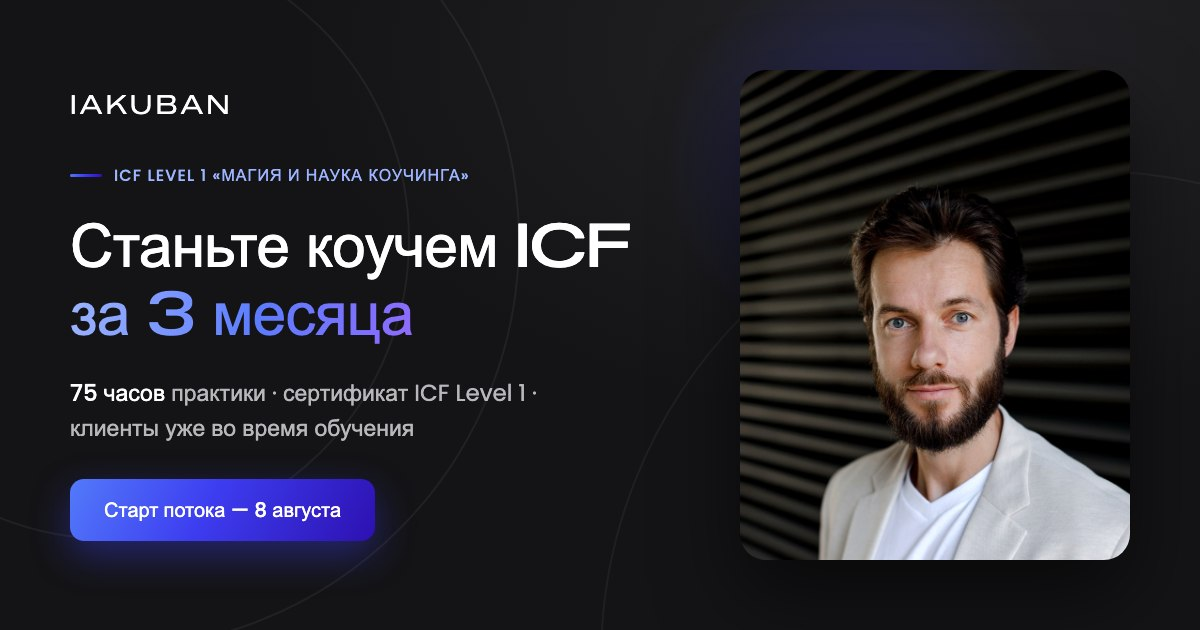
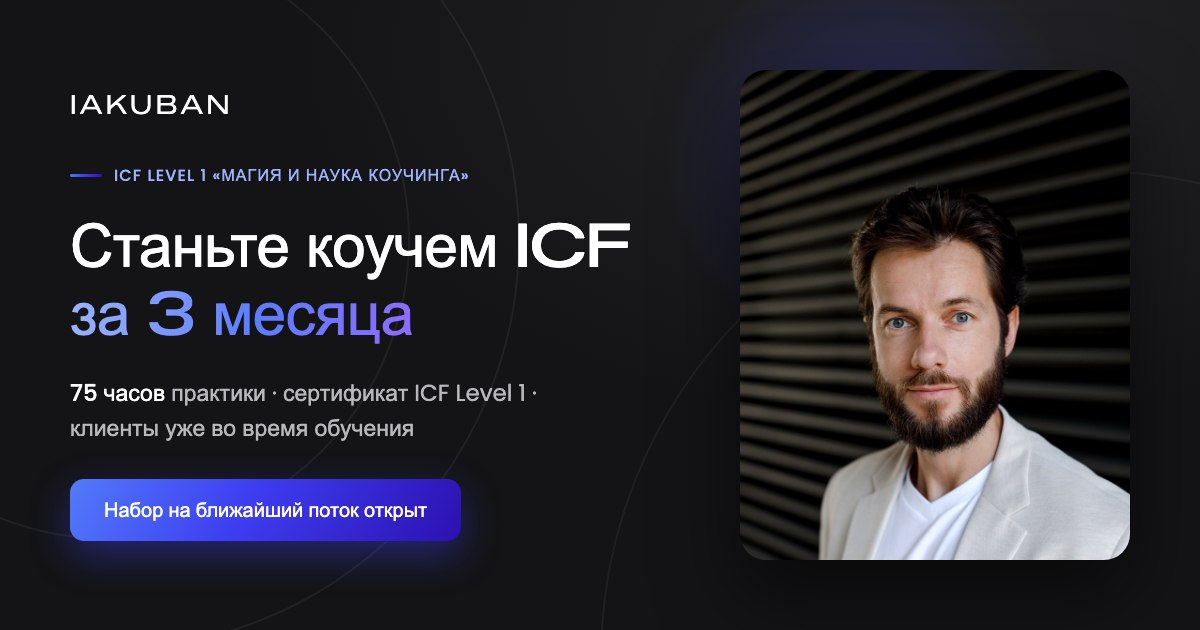
OG-превью: убрать дату старта, вечнозелёная версия

Changed region(s): [[0.0925, 0.754, 0.4008, 0.9048]]

diff --git a/assets/og-src.html b/assets/og-src.html
@@ -3,7 +3,7 @@
 <head>
 <meta charset="utf-8">
 <!-- Исходник OG-превью 1200×630. Рендер: headless Chrome --window-size=1200,630 --screenshot.
-     ⚠ Дата старта потока зашита в pill — при новом наборе поправить и перерендерить. -->
+     Картинка вечнозелёная: дат не зашивать (потоки раз в месяц, решение Алексея 31.07.2026). -->
 <link rel="preconnect" href="https://fonts.googleapis.com">
 <link rel="preconnect" href="https://fonts.gstatic.com" crossorigin>
 <link href="https://fonts.googleapis.com/css2?family=Zalando+Sans+Expanded:wght@400;500;600&family=Poppins:wght@400;500;600&display=swap" rel="stylesheet">
@@ -49,7 +49,7 @@
       <div class="eyebrow">ICF Level 1 «Магия и наука коучинга»</div>
       <h1>Станьте коучем ICF <span class="grad">за 3 месяца</span></h1>
       <p class="sub"><b>75 часов</b> практики · сертификат ICF Level 1 · клиенты уже во время обучения</p>
-      <span class="pill">Старт потока — 8 августа</span>
+      <span class="pill">Набор на ближайший поток открыт</span>
     </div>
     <div class="photo-clip"><img class="photo" src="aleksei.jpg" alt=""></div>
   </div>
